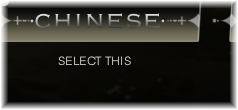
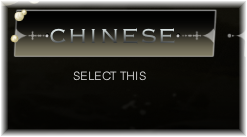
Fix third site button alignment: pixel-perfect coords verified with debug overlay

Changed region(s): [[0.0, 0.0, 1.0, 0.4364], [0.0, 0.9273, 1.0, 0.9818], [0.2353, 0.4909, 0.5882, 0.6]]

diff --git a/components/PosterStage.tsx b/components/PosterStage.tsx
@@ -58,7 +58,7 @@ const thirdHotspots: Hotspot[] = [
     image: assetPath("/assets/hotspots/btn-third-language.png"),
     label: "Switch language",
     target: "language",
-    className: "left-[69.72%] top-[81.11%] h-[9.8%] w-[12.96%]",
+    className: "left-[68.9%] top-[79.77%] h-[12.21%] w-[13.45%]",
     visible: false,
     revealOnHover: true,
   },
@@ -67,7 +67,7 @@ const thirdHotspots: Hotspot[] = [
     image: assetPath("/assets/hotspots/btn-third-home.png"),
     label: "Home",
     target: "home",
-    className: "left-[83.33%] top-[81.11%] h-[9.8%] w-[12.85%]",
+    className: "left-[82.68%] top-[79.77%] h-[12.21%] w-[13.51%]",
     visible: false,
     revealOnHover: true,
   },